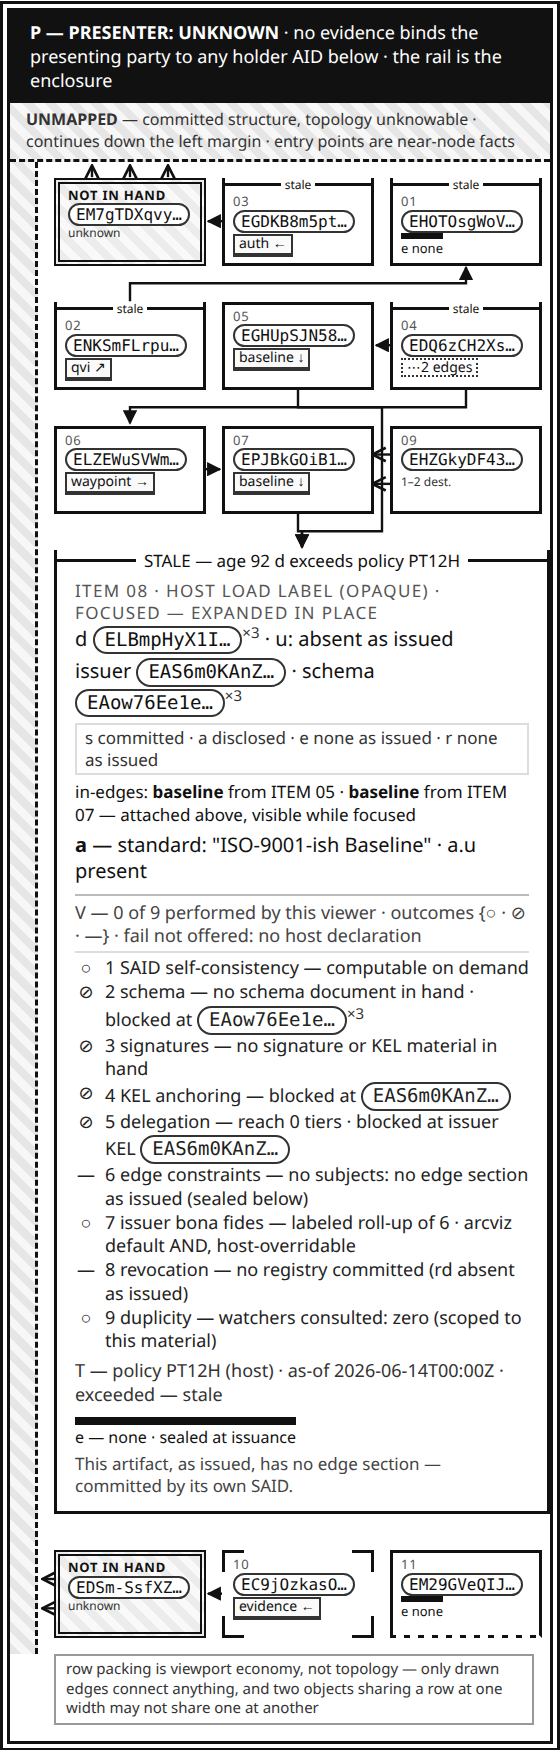
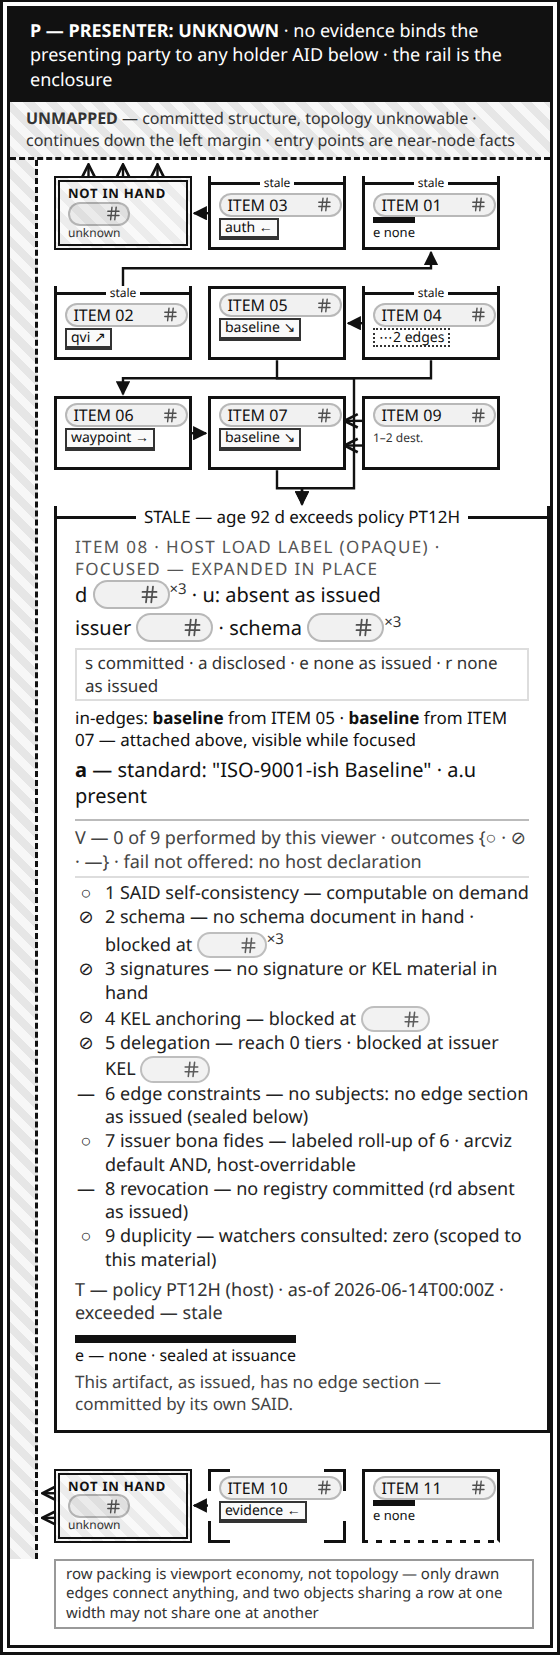
Recapture the sweep against the real pill, and add the type ladder
Every capture showed the hand-drawn placeholder. Regenerated against the
embedded component, plus 8/10/12 px at the conformance width — the ladder
where co-presence is lost between 10 and 12.

diff --git a/docs/design/layout-comparison/responsive-sweep/README.md b/docs/design/layout-comparison/responsive-sweep/README.md
@@ -19,6 +19,9 @@ The component caps at 480 px by default and turns surplus width into margin, so 
 | `words-320.png` | The words-only floor the perimeter glyphs replace, for the small-n probe to compare against `rest-320.png`. Items 10 and 11 carry their states as six-point words. |
 | `banner-el251-768.png` | Component pinned to 283 px inside a 768 px viewport: card 251 px, full stale banner on one line. |
 | `banner-el248-768.png` | Pinned to 280 px: card 248 px — the retest's number — with the short banner on one line. |
+| `type8-320.png` | The 8 px base every artifact in this repository uses, at the conformance width. Three across, five rows, fits one phone screen. |
+| `type10-320.png` | 10 px. Still three across, still one screen — the largest type at which co-presence survives at 320. |
+| `type12-320.png` | 12 px. Two across, seven rows, 1.22 screens: co-presence is gone at the conformance width. Fits at 360, though. |
 | `banner-el176-768.png` | Pinned to 208 px: card 176 px, short banner wrapping. Nothing clips. |
 
-Every capture is a render at the stated width, not a reconstruction or a scaled specimen.
+Every capture is a render at the stated width, not a reconstruction or a scaled specimen. Every identifier in them is the real `EntvizPill` from `@entviz/react`, not a drawing of one — the visible pill reads `ITEM nn` and a role glyph, and carries no value characters at all.
